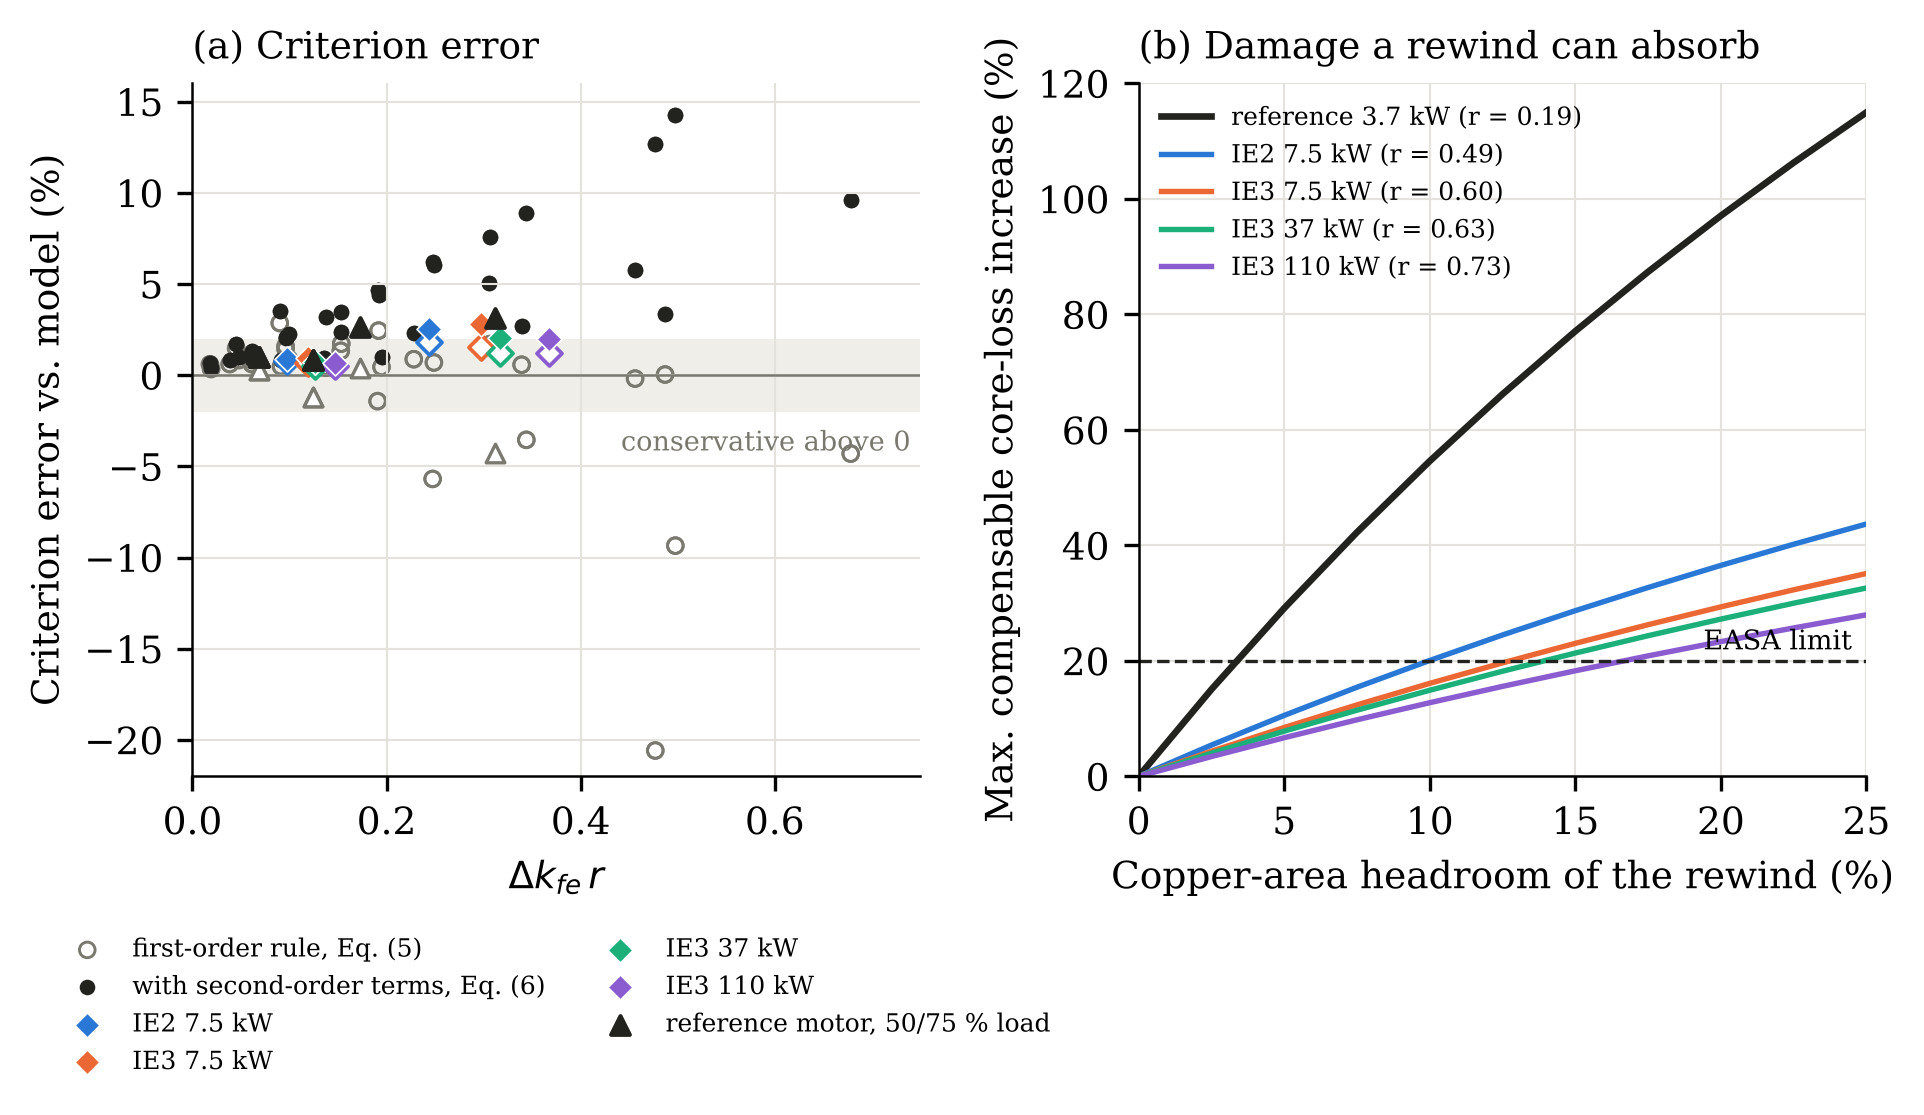
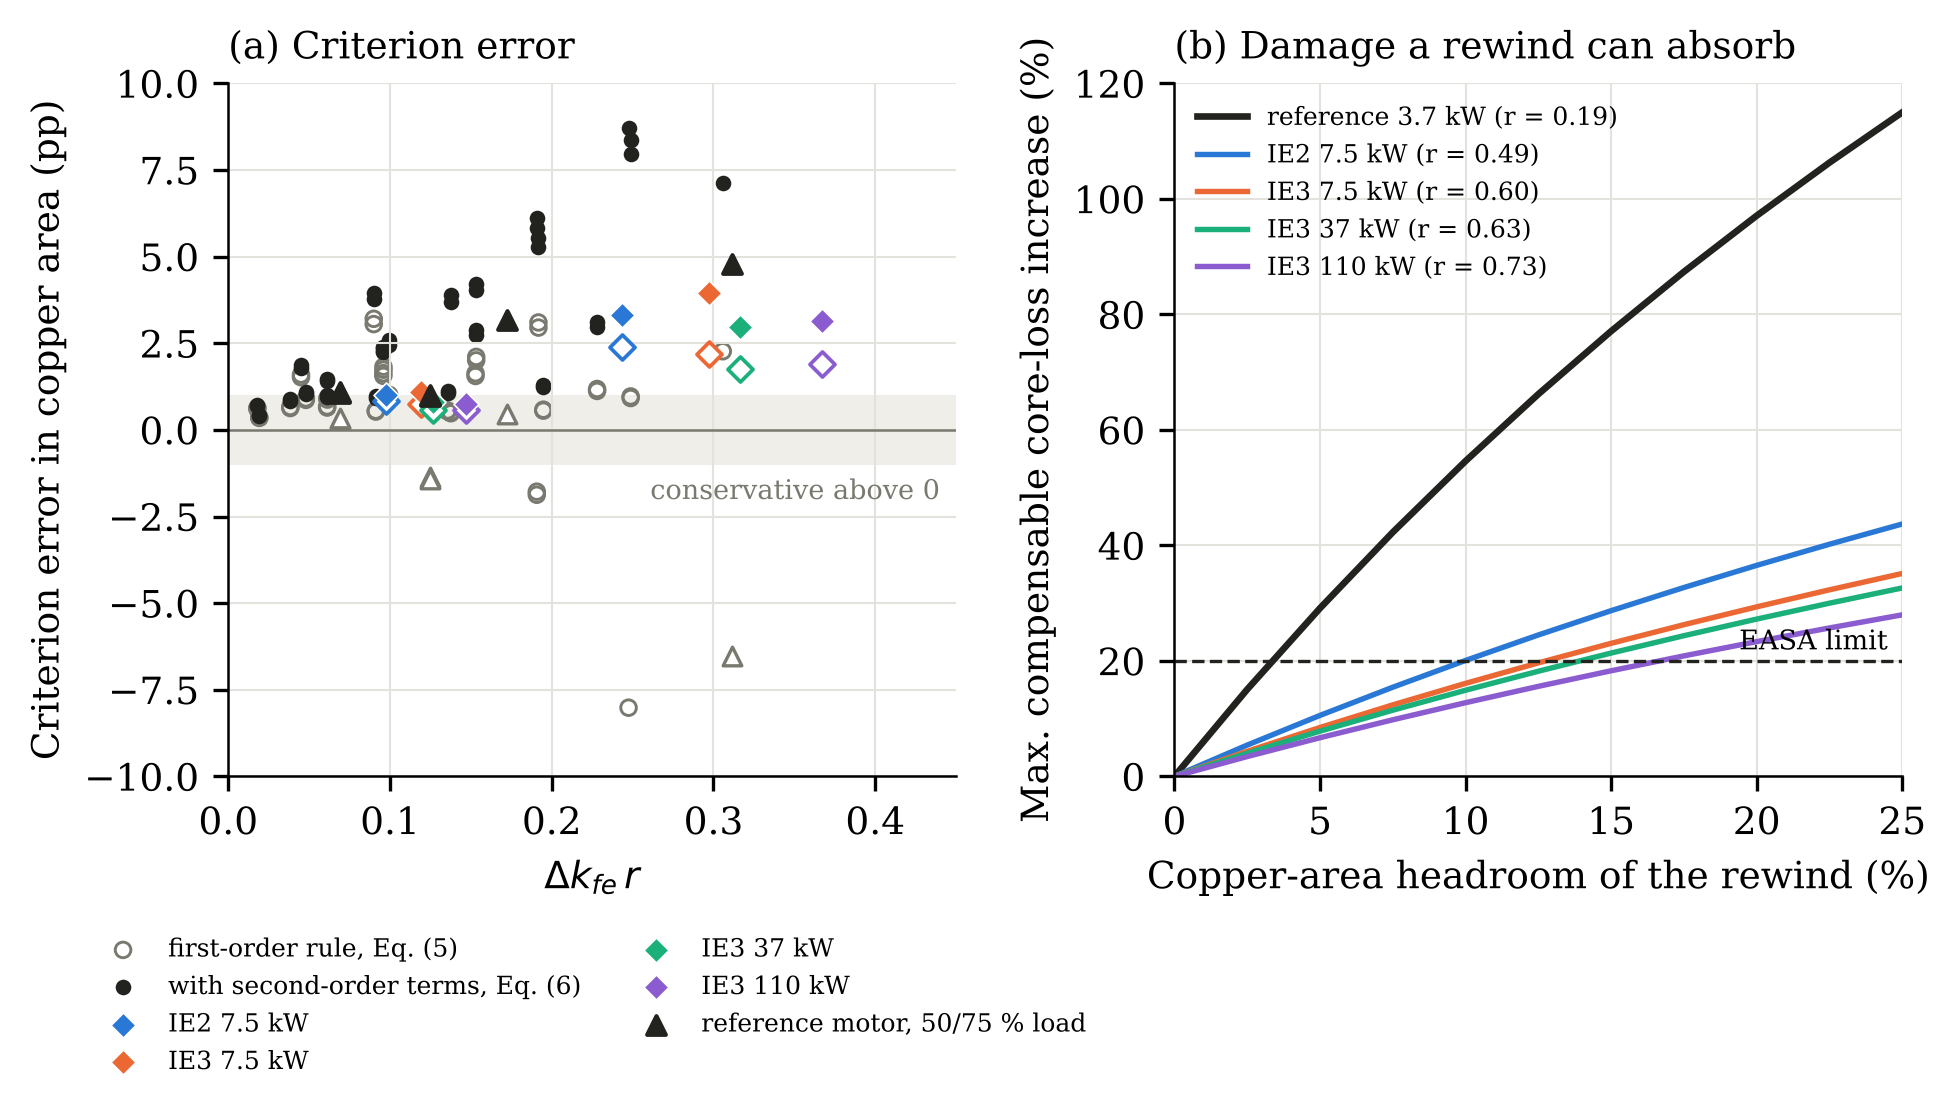
Revision 3: accuracy in pp, 95 % intervals, corrected nameplate efficiency

diff --git a/analysis/fig_rule.py b/analysis/fig_rule.py
@@ -11,26 +11,28 @@ def save(fig, name):
 
 # ---------- Fig. 8: rule accuracy and compensable damage
 R3 = json.load(open('rule3.json'))
-S = [r for r in R3['synthetic'] if np.isfinite(r['a_mod']) and np.isfinite(r['a1'])]
+S = [r for r in R3['synthetic'] if np.isfinite(r['a_mod']) and np.isfinite(r['a1']) and np.isfinite(r['a3']) and r['a3'] <= 1.5]
+for r in S: r['p1'] = 100*(r['a1']-r['a_mod']); r['p3'] = 100*(r['a3']-r['a_mod'])
+for x in R3['ie']+R3['partload']: x['p1'] = 100*(x['v1']-x['mod']); x['p3'] = 100*(x['v3']-x['mod'])
 G = json.load(open('ecgen.json')); RR = json.load(open('refrev.json'))
 fig, ax = plt.subplots(1, 2, figsize=(7.2, 3.0), gridspec_kw={'wspace':0.3})
 a = ax[0]
-a.axhspan(-2, 2, color='#efeee9', lw=0)
-a.scatter([r['dk']*r['r'] for r in S], [r['e1'] for r in S], s=14, facecolor='none', edgecolor=MUTED, lw=0.7, label='first-order rule, Eq. (5)')
-a.scatter([r['dk']*r['r'] for r in S if np.isfinite(r['e3'])], [r['e3'] for r in S if np.isfinite(r['e3'])], s=14, color=INK, lw=0, label='with second-order terms, Eq. (6)')
+a.axhspan(-1, 1, color='#efeee9', lw=0)
+a.scatter([r['dk']*r['r'] for r in S], [r['p1'] for r in S], s=14, facecolor='none', edgecolor=MUTED, lw=0.7, label='first-order rule, Eq. (5)')
+a.scatter([r['dk']*r['r'] for r in S if np.isfinite(r['e3'])], [r['p3'] for r in S if np.isfinite(r['e3'])], s=14, color=INK, lw=0, label='with second-order terms, Eq. (6)')
 names = [g['name'] for g in G]
 for x in R3['ie']:
     i = names.index(x['name']); r = G[i]['r']
-    a.scatter(x['dk']*r, x['e1'], marker='D', s=18, facecolor='white', edgecolor=C4[i], lw=0.9, zorder=3)
-    a.scatter(x['dk']*r, x['e3'], marker='D', s=18, color=C4[i], edgecolor='white', lw=0.4, zorder=3, label=x['name'].replace('.0 kW', ' kW') if x['dk'] == 0.2 else None)
+    a.scatter(x['dk']*r, x['p1'], marker='D', s=18, facecolor='white', edgecolor=C4[i], lw=0.9, zorder=3)
+    a.scatter(x['dk']*r, x['p3'], marker='D', s=18, color=C4[i], edgecolor='white', lw=0.4, zorder=3, label=x['name'].replace('.0 kW', ' kW') if x['dk'] == 0.2 else None)
 for x in R3['partload']:
     if x['load'] == '1.0': continue
     rr = RR['partload'][x['load']]['r']; dk = {'D1':0.2,'D2':0.5,'D3':0.2}[x['dmg']]
-    a.scatter(dk*rr, x['e1'], marker='^', s=20, facecolor='white', edgecolor=MUTED, lw=0.8, zorder=3)
-    a.scatter(dk*rr, x['e3'], marker='^', s=20, color=INK, zorder=3, label='reference motor, 50/75 % load' if (x['load'], x['dmg']) == ('0.5', 'D1') else None)
-a.axhline(0, color=MUTED, lw=0.6); a.set_ylim(-22, 16); a.set_xlim(0, 0.75)
-a.set_xlabel(r'$\Delta k_{fe}\,r$'); a.set_ylabel('Criterion error vs. model (%)')
-a.text(0.74, -3, 'conservative above 0', fontsize=6.5, ha='right', va='top', color=MUTED)
+    a.scatter(dk*rr, x['p1'], marker='^', s=20, facecolor='white', edgecolor=MUTED, lw=0.8, zorder=3)
+    a.scatter(dk*rr, x['p3'], marker='^', s=20, color=INK, zorder=3, label='reference motor, 50/75 % load' if (x['load'], x['dmg']) == ('0.5', 'D1') else None)
+a.axhline(0, color=MUTED, lw=0.6); a.set_ylim(-10, 10); a.set_xlim(0, 0.45)
+a.set_xlabel(r'$\Delta k_{fe}\,r$'); a.set_ylabel('Criterion error in copper area (pp)')
+a.text(0.44, -1.4, 'conservative above 0', fontsize=6.5, ha='right', va='top', color=MUTED)
 a.legend(fontsize=6, loc='upper center', bbox_to_anchor=(0.5,-0.2), ncol=2); a.set_title('(a) Criterion error', fontsize=9, loc='left')
 b = ax[1]; hd = np.linspace(1.0, 1.25, 11)
 ref = []

diff --git a/analysis/dkmax_unc.py b/analysis/dkmax_unc.py
@@ -8,7 +8,7 @@ for g in G + [dict(name='Reference 3.7 kW', r=0.192)]:
     res = {}
     for h in (1.05, 1.10):
         dk = (1 - 1/h)/r/k                                            # allowed increase as read by the core test
-        res[str(h)] = dict(nominal=(1-1/h)/g['r'], p05=float(np.percentile(dk, 5)), p50=float(np.median(dk)), p95=float(np.percentile(dk, 95)))
+        res[str(h)] = dict(nominal=(1-1/h)/g['r'], p05=float(np.percentile(dk, 5)), p50=float(np.median(dk)), p95=float(np.percentile(dk, 95)), p025=float(np.percentile(dk, 2.5)), p975=float(np.percentile(dk, 97.5)))
     out[g['name']] = res
     print('%-17s ' % g['name'] + ' | '.join('+%d %% Cu: nominal %.1f %%, 90 %% interval %.1f-%.1f %%' % (round(100*(h-1)), 100*res[str(h)]['nominal'], 100*res[str(h)]['p05'], 100*res[str(h)]['p95']) for h in (1.05, 1.10)))
 json.dump(out, open('dkmax_unc.json', 'w'), indent=1)

diff --git a/analysis/refrev.py b/analysis/refrev.py
@@ -107,7 +107,7 @@ OUT['loads'] = loads.tolist()
 
 # ---------------- 4. nameplate-current consistency and loss-ratio sensitivity
 I1, pf = base['I1'], base['pf']; Iact, Ireac = I1*pf, I1*math.sin(math.acos(pf))
-Ineed_act = math.sqrt(max(6.9**2 - Ireac**2, 0)); eta_needed = 3700/(3*H.V_PH*Ineed_act + base['P_fe'])
+Ineed_act = math.sqrt(max(6.9**2 - Ireac**2, 0)); eta_needed = 3700/(3*H.V_PH*Ineed_act)  # input power at 6.9 A with the model's reactive current
 OUT['nameplate'] = dict(I1=I1, pf=pf, I_active=Iact, I_reactive=Ireac, eta_needed_for_6p9A=eta_needed)
 print('model I1 %.2f A (active %.2f, reactive %.2f); 6.9 A would need eta >= %.1f%%' % (I1, Iact, Ireac, 100*eta_needed))
 OUT['ratio_sens'] = {}

diff --git a/README.md b/README.md
@@ -1,5 +1,8 @@
 # Compensating repair-induced core loss in rewound induction motors — code and data
 
+[![DOI](https://zenodo.org/badge/DOI/10.5281/zenodo.24353780.svg)](https://doi.org/10.5281/zenodo.24353780)
+
+
 Scripts and results for the paper *"Compensating repair-induced core loss in rewound induction motors by constrained
 winding redesign: a loss-ratio criterion for repair shops"* (M. Ekiz, in preparation).
 
@@ -85,3 +88,10 @@ New FEA script `fea/adim9_ek_fea.py`: saturated locked-rotor runs with an energy
 
 Note: the FEA scripts in `fea/` carry Turkish comments; each file's header describes its purpose and outputs.
 The calibration sweeps of steps 2–4 were exploratory; their final values are in Table 2 and reproduced by `adim5_son_dogrulama.py`.
+
+
+## Revision 3 (review rounds 3-5)
+- Criterion accuracy reported in percentage points of copper area (`analysis/fig_rule.py`, Fig. 8a).
+- 95 % intervals of the absorbable core-loss increase (`analysis/dkmax_unc.py`).
+- `analysis/refrev.json`: corrected efficiency implied by the 6.9 A nameplate current (93 %); note on admissible counts (paper uses `scan_sat.json`).
+- `analysis/ecgen.json`: note that Table 5 uses the v3 second-order form.
